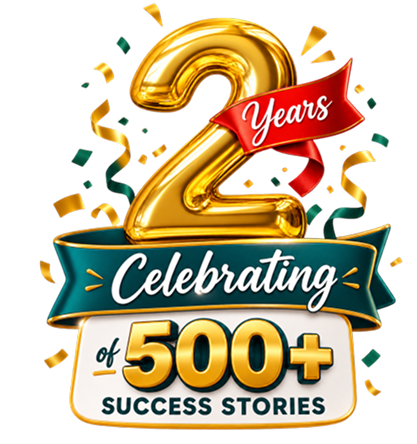
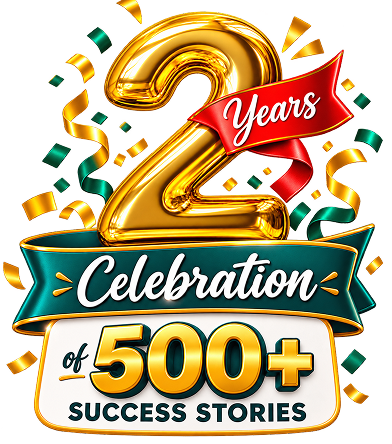
fixed the UI for the offer modal

diff --git a/src/components/_core/two-years-aniversary-offer/modal.tsx b/src/components/_core/two-years-aniversary-offer/modal.tsx
@@ -1,6 +1,6 @@
 "use client";
 
-import { useEffect, useRef } from "react";
+import { useEffect, useRef, useState } from "react";
 import Image from "next/image";
 import Link from "next/link";
 import confetti from "canvas-confetti";
@@ -14,6 +14,7 @@ const CLARITY_HREF_DEFAULT = "/clarity-session/data-track";
 const SPOTS_CLAIMED = 350;
 const SPOTS_TOTAL = 500;
 const PEOPLE_HIRED = 250;
+const CLOSE_BUTTON_DELAY_MS = 10_000;
 
 const CONFETTI_COLORS = [
   "#F2C94C",
@@ -115,8 +116,23 @@ export function SpecialOfferModal({
   clarityHref = CLARITY_HREF_DEFAULT,
 }: SpecialOfferModalProps) {
   const { days, hrs, mins, secs } = usePromoCountdown();
+  const totalHours = days * 24 + hrs;
   const claimedPct = Math.round((SPOTS_CLAIMED / SPOTS_TOTAL) * 100);
   const confettiFired = useRef(false);
+  const [showCloseButton, setShowCloseButton] = useState(false);
+
+  useEffect(() => {
+    if (!open) {
+      setShowCloseButton(false);
+      return;
+    }
+
+    const timer = window.setTimeout(() => {
+      setShowCloseButton(true);
+    }, CLOSE_BUTTON_DELAY_MS);
+
+    return () => window.clearTimeout(timer);
+  }, [open]);
 
   useEffect(() => {
     if (!open) {
@@ -165,14 +181,16 @@ export function SpecialOfferModal({
           "z-200 max-h-[min(96vh,900px)] w-full max-w-222.5 sm:max-w-222.5 gap-0 overflow-hidden border-0 bg-[#083A45] p-0 text-white rounded-xs!",
         )}
       >
-        <button
-          type="button"
-          onClick={() => onOpenChange(false)}
-          className="absolute top-3 right-3 z-20 flex size-8 items-center justify-center rounded-full border border-white/70 text-white transition hover:bg-white/10 sm:top-4 sm:right-4"
-          aria-label="Close"
-        >
-          <X className="size-4" />
-        </button>
+        {showCloseButton ? (
+          <button
+            type="button"
+            onClick={() => onOpenChange(false)}
+            className="absolute top-3 right-3 z-20 flex size-8 items-center justify-center rounded-full border border-white/70 text-white transition hover:bg-white/10 sm:top-4 sm:right-4"
+            aria-label="Close"
+          >
+            <X className="size-4" />
+          </button>
+        ) : null}
 
         <div className="relative max-h-[min(96vh,900px)] overflow-y-auto md:overflow-hidden">
           {/* Soft office backdrop across the modal */}
@@ -210,36 +228,36 @@ export function SpecialOfferModal({
 
           {/* Left content — stretches past center like the Figma frame */}
           <div className="relative z-10 flex w-[80%] flex-col px-5 py-6 sm:px-8 sm:py-8 md:w-[62%] lg:px-10 lg:py-10">
-            <span className="inline-flex w-fit rounded-full bg-[#6B4C9A] px-3 py-1 text-[11px] font-medium tracking-wide text-white sm:text-xs">
+            <span className="inline-flex w-fit items-center gap-1.5 rounded-full bg-[#C7B0E4] px-3 py-1 text-[11px] font-semibold tracking-wide text-[#1F0047] sm:text-xs">
+              <Image
+                src="/iwd/iwd-time-icon.svg"
+                width={18}
+                height={18}
+                alt=""
+                className="animate-vibrate shrink-0"
+              />
               Limited-Time Anniversary Celebration
             </span>
 
-            <DialogTitle className="mt-4 font-clash-display text-3xl leading-[1.1] font-semibold text-white sm:text-4xl lg:text-[2.65rem]">
-              Celebrating 500+ Success Stories
+            <DialogTitle className="mt-4 font-clash-display! text-3xl leading-[1.1] font-semibold text-white sm:text-4xl lg:text-[2.65rem]">
+              Celebrating <span className="text-[#FFE082]">500+</span> Success Stories
             </DialogTitle>
 
-            <p className="mt-3 text-base font-semibold text-[#F2C94C] sm:text-lg">
-              Your Story Could Be Next.{" "}
-              <em className="not-italic font-bold">Every Program is 50% OFF</em>
+            <p className="mt-3 text-base md:text-lg font-semibold">Your Story Could Be Next.{" "}</p>
+            <p className="text-base md:text-lg font-semibold text-[#FFE082] sm:text-lg">
+              <em className="not-italic font-bold">
+                "Every Program is 50% off for 24hrs”</em>
             </p>
 
             <p className="mt-3 max-w-md text-sm leading-relaxed text-white/85 sm:text-[15px]">
-              For a limited time, join Amdari at 50% off and be part of our
-              next 500 success stories. We&apos;ve spent two years helping
-              professionals gain real-world experience, build portfolios, and
-              land roles that change careers — now it&apos;s your turn.
+              For two years we've helped aspiring professionals gain real-world experience, build job-ready portfolios, and launch global tech careers.
             </p>
 
             <div className="mt-6 flex flex-wrap gap-2.5 sm:gap-4 md:gap-5">
               <CountdownRing
-                value={days}
-                label="Days"
-                progress={days / Math.max(days, 1)}
-              />
-              <CountdownRing
-                value={hrs}
+                value={totalHours}
                 label="Hours"
-                progress={hrs / 24}
+                progress={totalHours / 24}
               />
               <CountdownRing
                 value={mins}
@@ -260,18 +278,18 @@ export function SpecialOfferModal({
               <Link
                 href={claimHref}
                 onClick={() => onOpenChange(false)}
-                className="inline-flex h-12 items-center justify-center gap-2 rounded-xl bg-[#F2C94C] px-5 text-sm font-bold text-[#0F4652] transition hover:bg-[#E8BC35]"
+                className="group inline-flex h-12 items-center justify-center gap-2 rounded-xl border border-transparent bg-[#FFE082] px-5 text-sm font-bold text-[#0F4652] transition hover:border-white/80 hover:bg-transparent hover:font-semibold hover:text-white"
               >
                 Claim My 50% Discount
-                <ArrowIcon className="bg-[#0F4652]/12 text-[#0F4652]" />
+                <ArrowIcon className="bg-[#156374] text-base text-[#FFE082] transition group-hover:bg-[#FFE082] group-hover:text-[#156374]" />
               </Link>
               <Link
                 href={clarityHref}
                 onClick={() => onOpenChange(false)}
-                className="inline-flex h-12 items-center justify-center gap-2 rounded-xl border border-white/80 bg-transparent px-5 text-sm font-semibold text-white transition hover:bg-white/10"
+                className="group inline-flex h-12 items-center justify-center gap-2 rounded-xl border border-white/80 bg-transparent px-5 text-sm font-semibold text-white transition hover:border-transparent hover:bg-[#FFE082] hover:font-bold hover:text-[#0F4652]"
               >
                 Book Clarity Session
-                <ArrowIcon className="bg-white/15 text-white" />
+                <ArrowIcon className="bg-[#FFE082] text-[#156374] transition group-hover:bg-[#156374] group-hover:text-[#FFE082]" />
               </Link>
             </div>
 
@@ -297,16 +315,16 @@ export function SpecialOfferModal({
                   <span className="font-semibold">
                     {SPOTS_CLAIMED} of {SPOTS_TOTAL} spots claimed
                   </span>{" "}
-                  <span className="text-white/75">
+                  {/* <span className="text-white/75">
                     {PEOPLE_HIRED} people hired toward our next 500
-                  </span>
+                  </span> */}
                 </p>
-                <div className="mt-1.5 h-1.5 w-full max-w-xs overflow-hidden rounded-full bg-white/20">
+                {/* <div className="mt-1.5 h-1.5 w-full max-w-xs overflow-hidden rounded-full bg-white/20">
                   <div
                     className="h-full rounded-full bg-[#F2C94C]"
                     style={{ width: `${claimedPct}%` }}
                   />
-                </div>
+                </div> */}
               </div>
             </div>
           </div>
